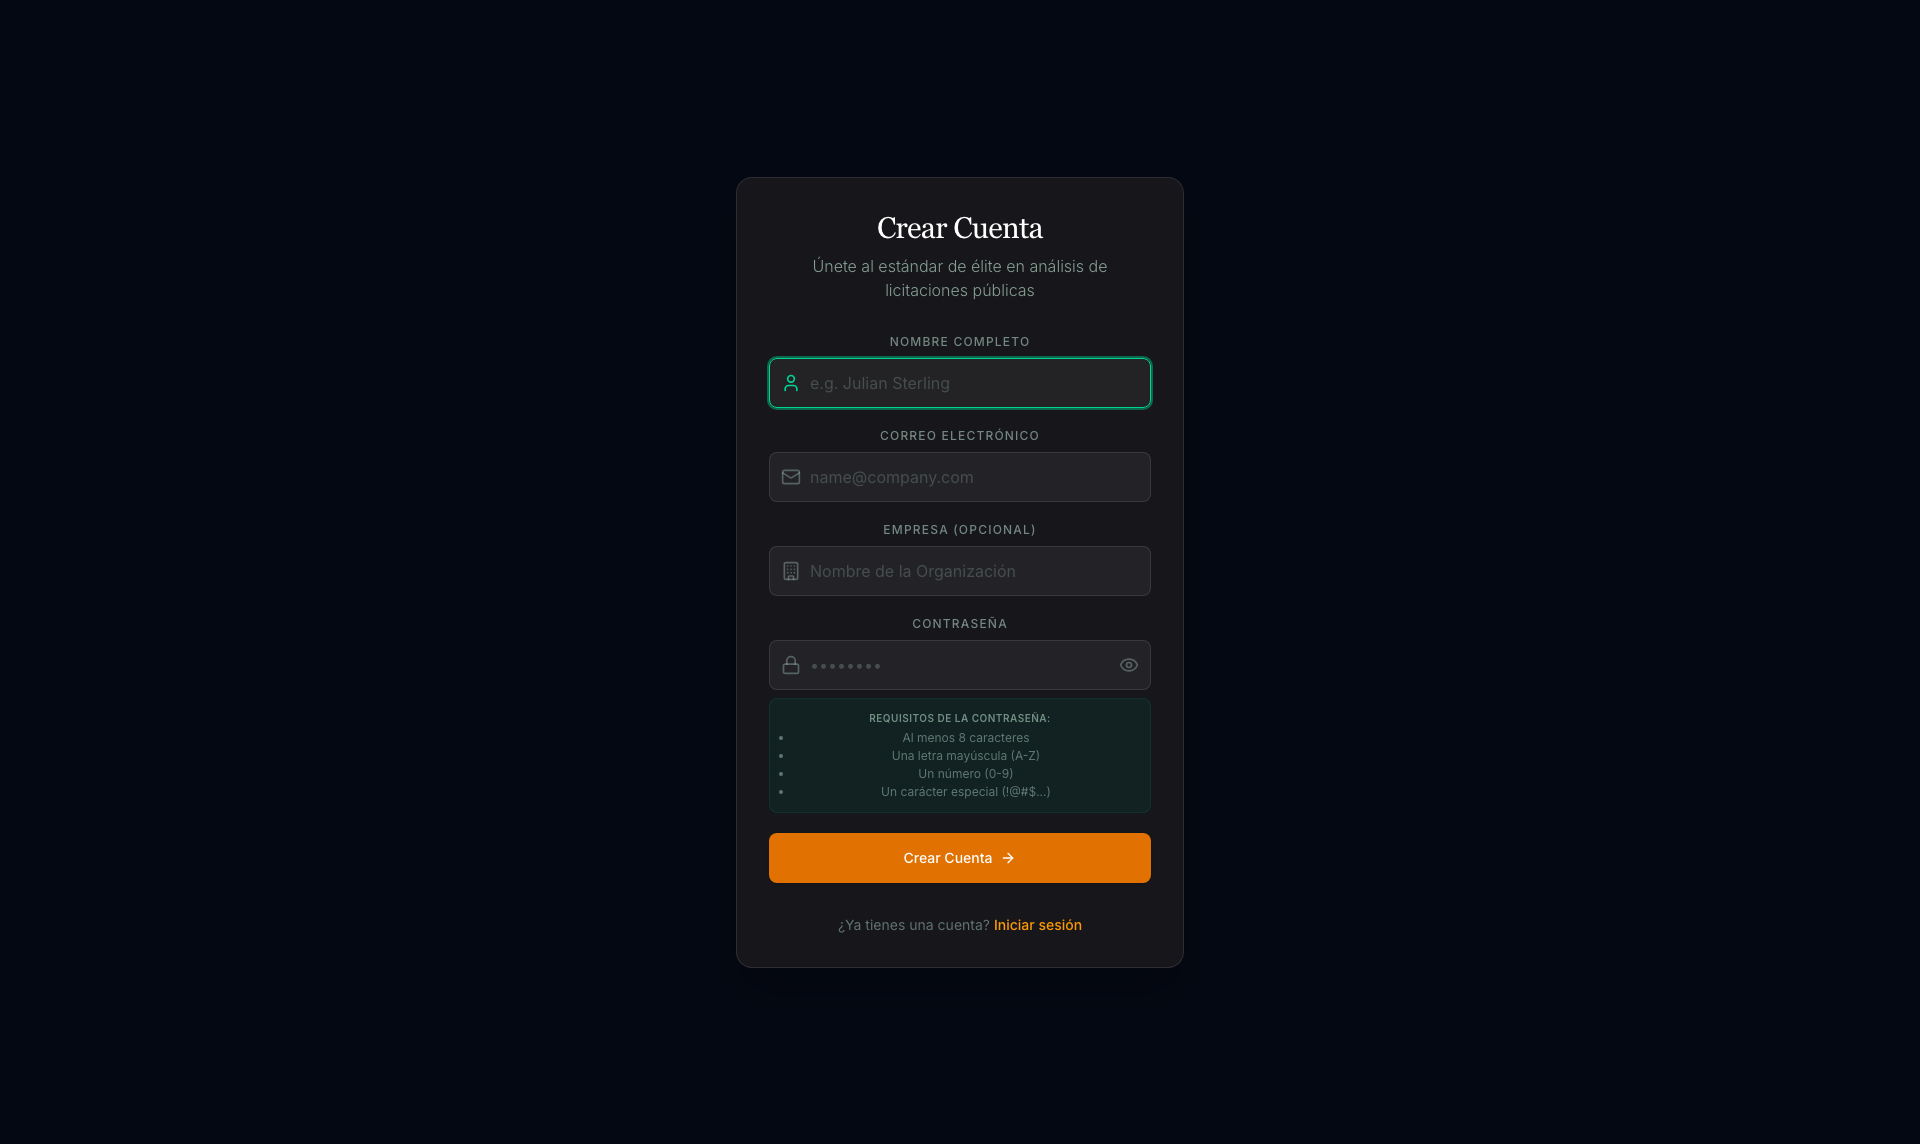
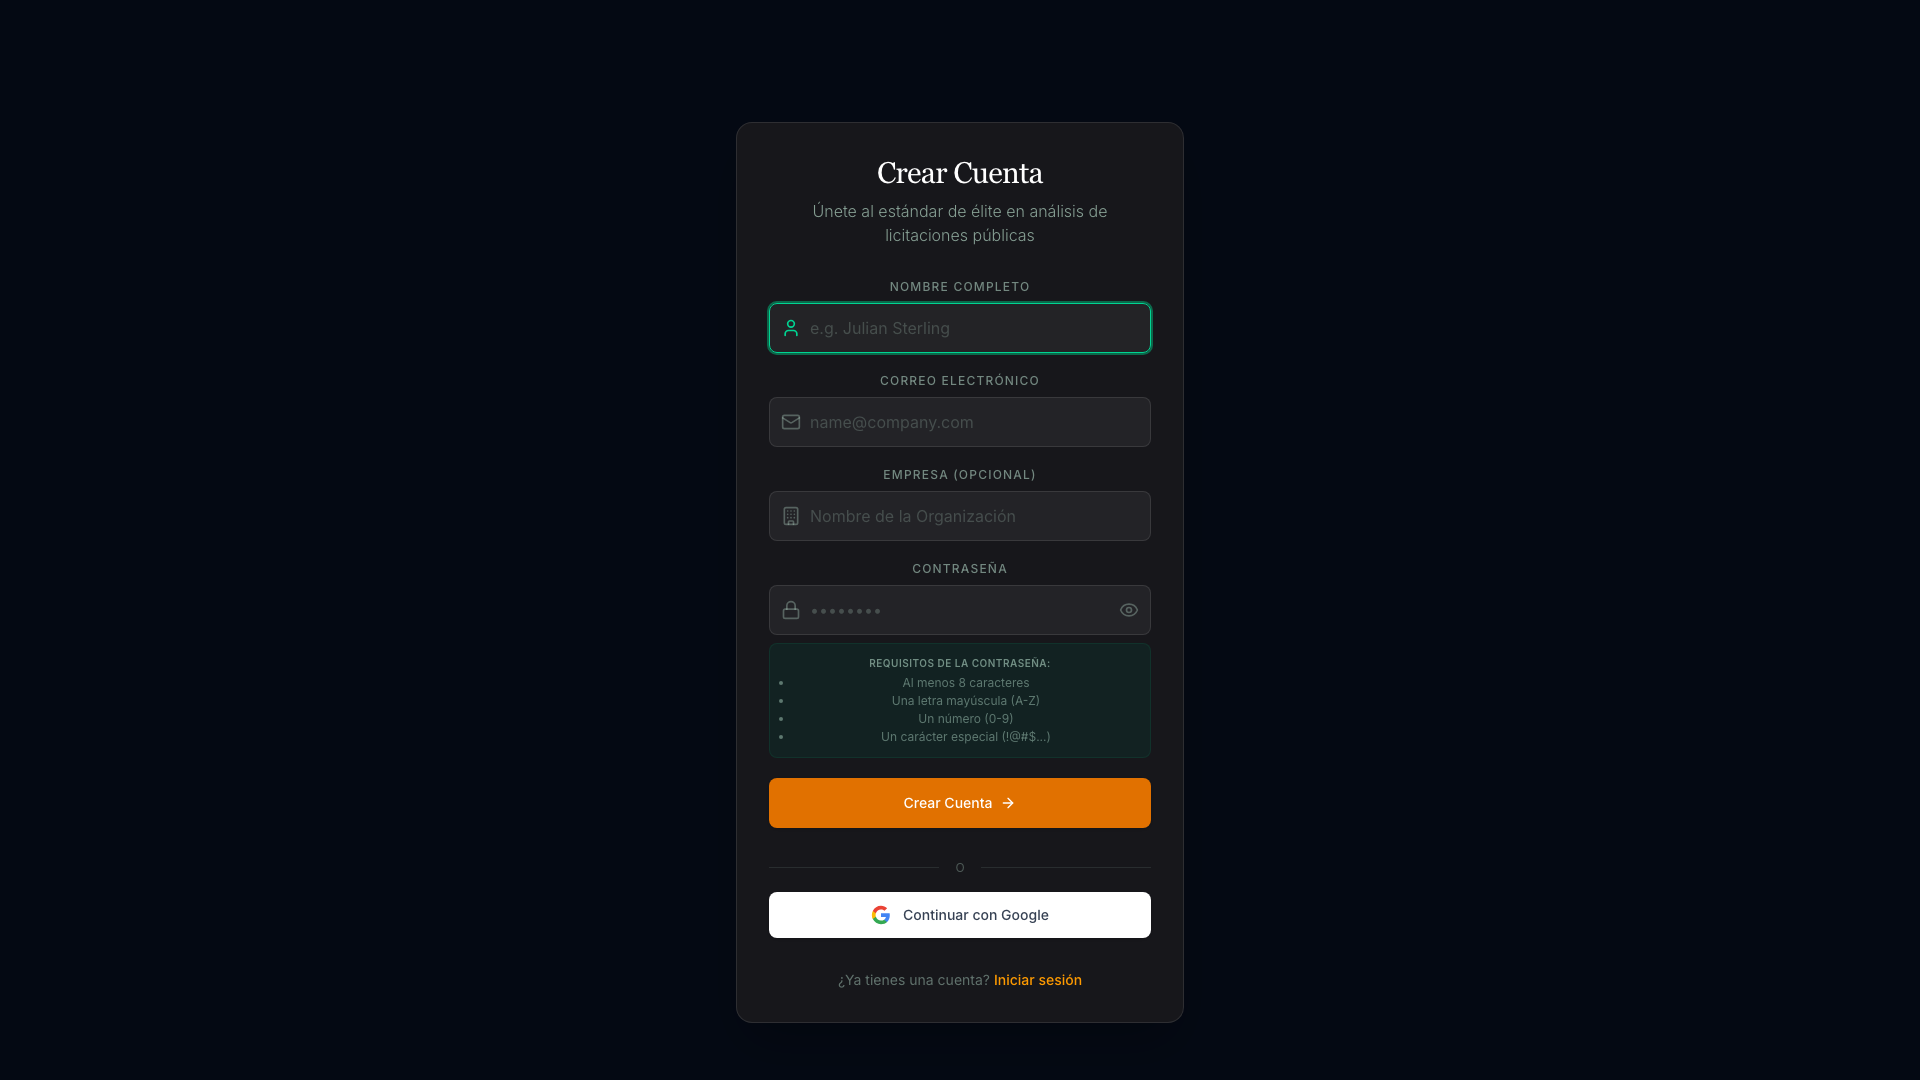
docs: update register page screenshot with google auth

diff --git a/tests/e2e/screenshots.spec.ts b/tests/e2e/screenshots.spec.ts
@@ -124,6 +124,8 @@ test('📸 Generate Marketing Screenshots & Video', async ({ page }) => {
   // 5. Register (Fast flow)
   await page.goto('/register');
   await page.evaluate(() => document.documentElement.classList.add('dark'));
+  await page.waitForSelector('text=Continuar con Google');
+  await page.screenshot({ path: 'screenshots/0B-register-page.png' });
   
   const uniqueId = Date.now();
   await page.fill('input[id="name"]', 'Demo User');
